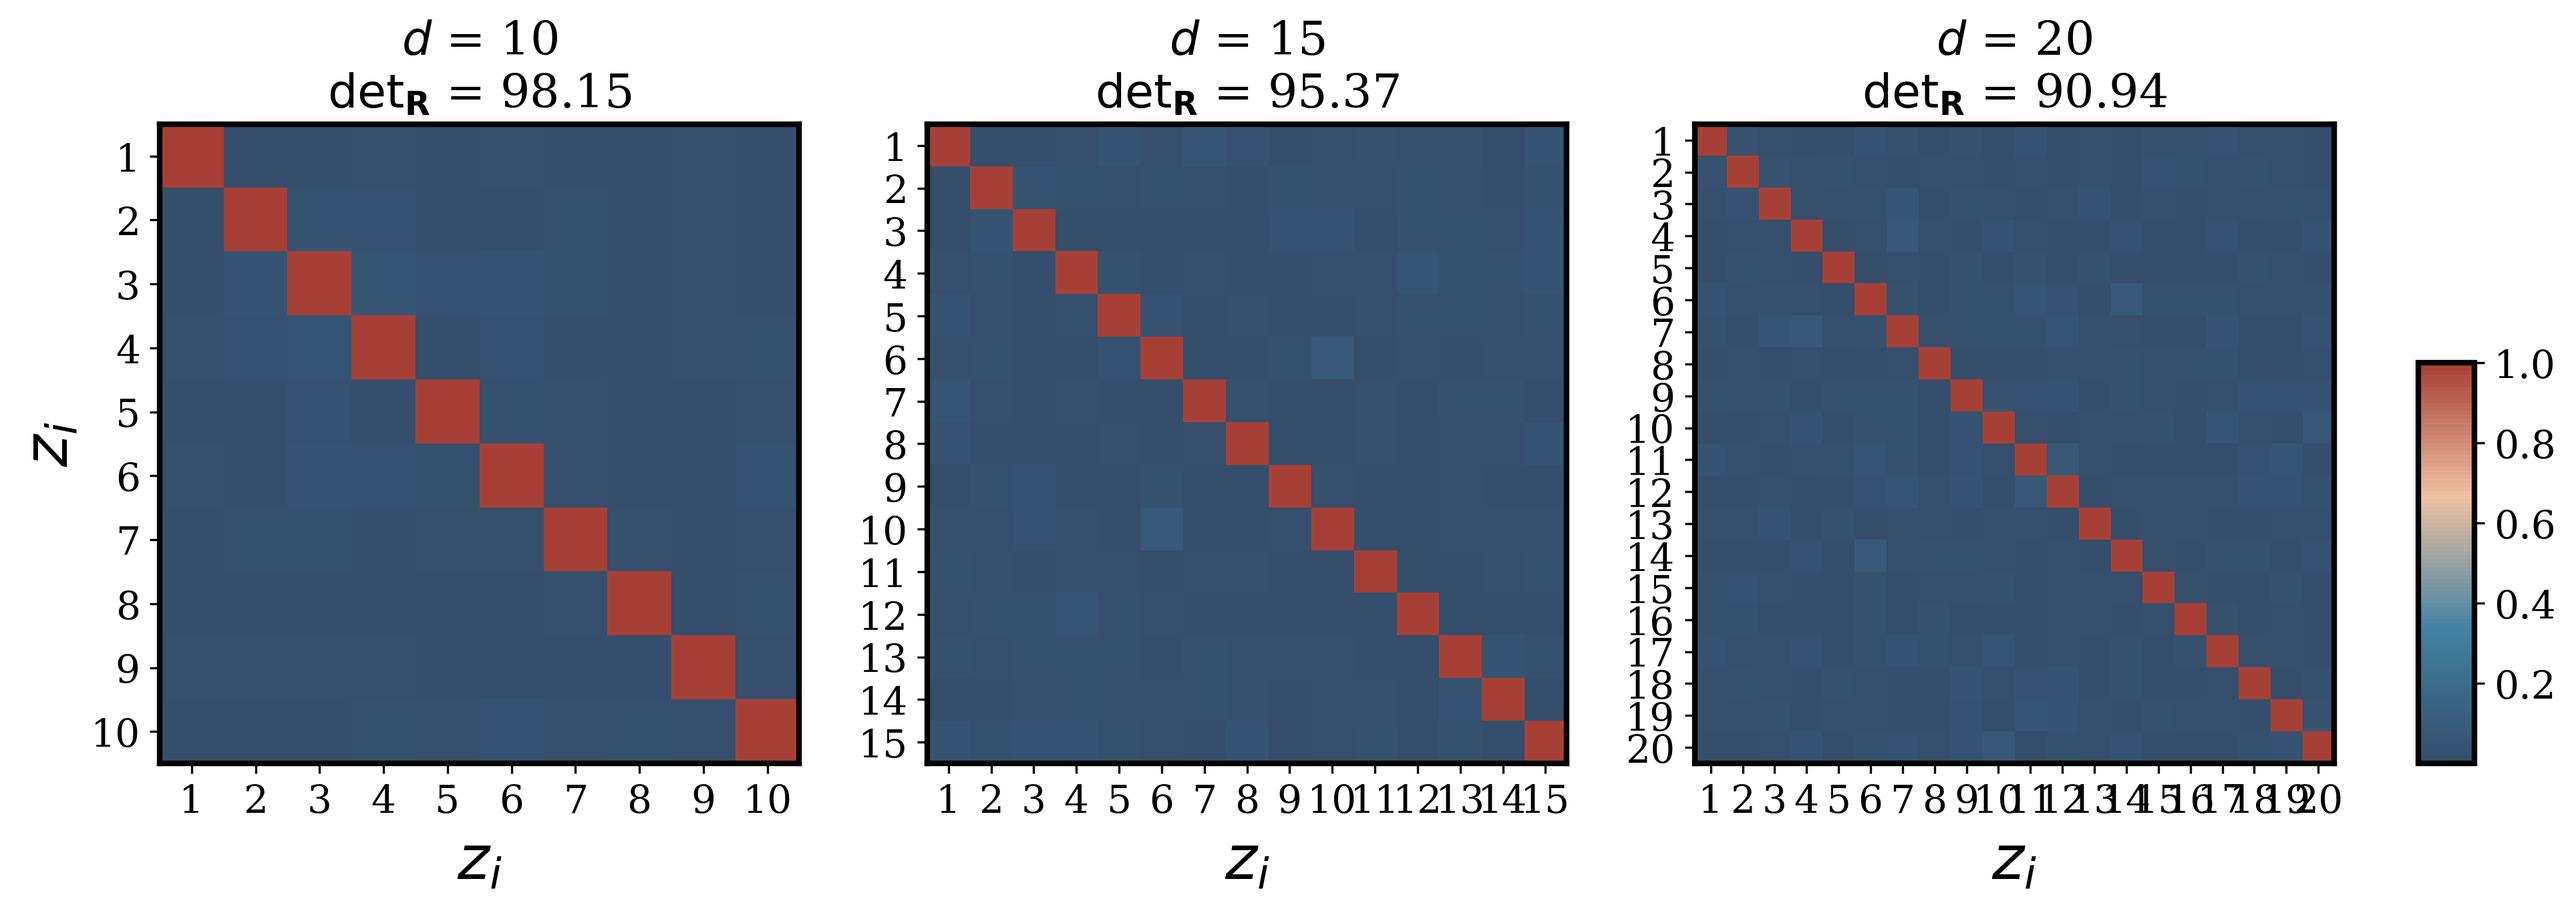
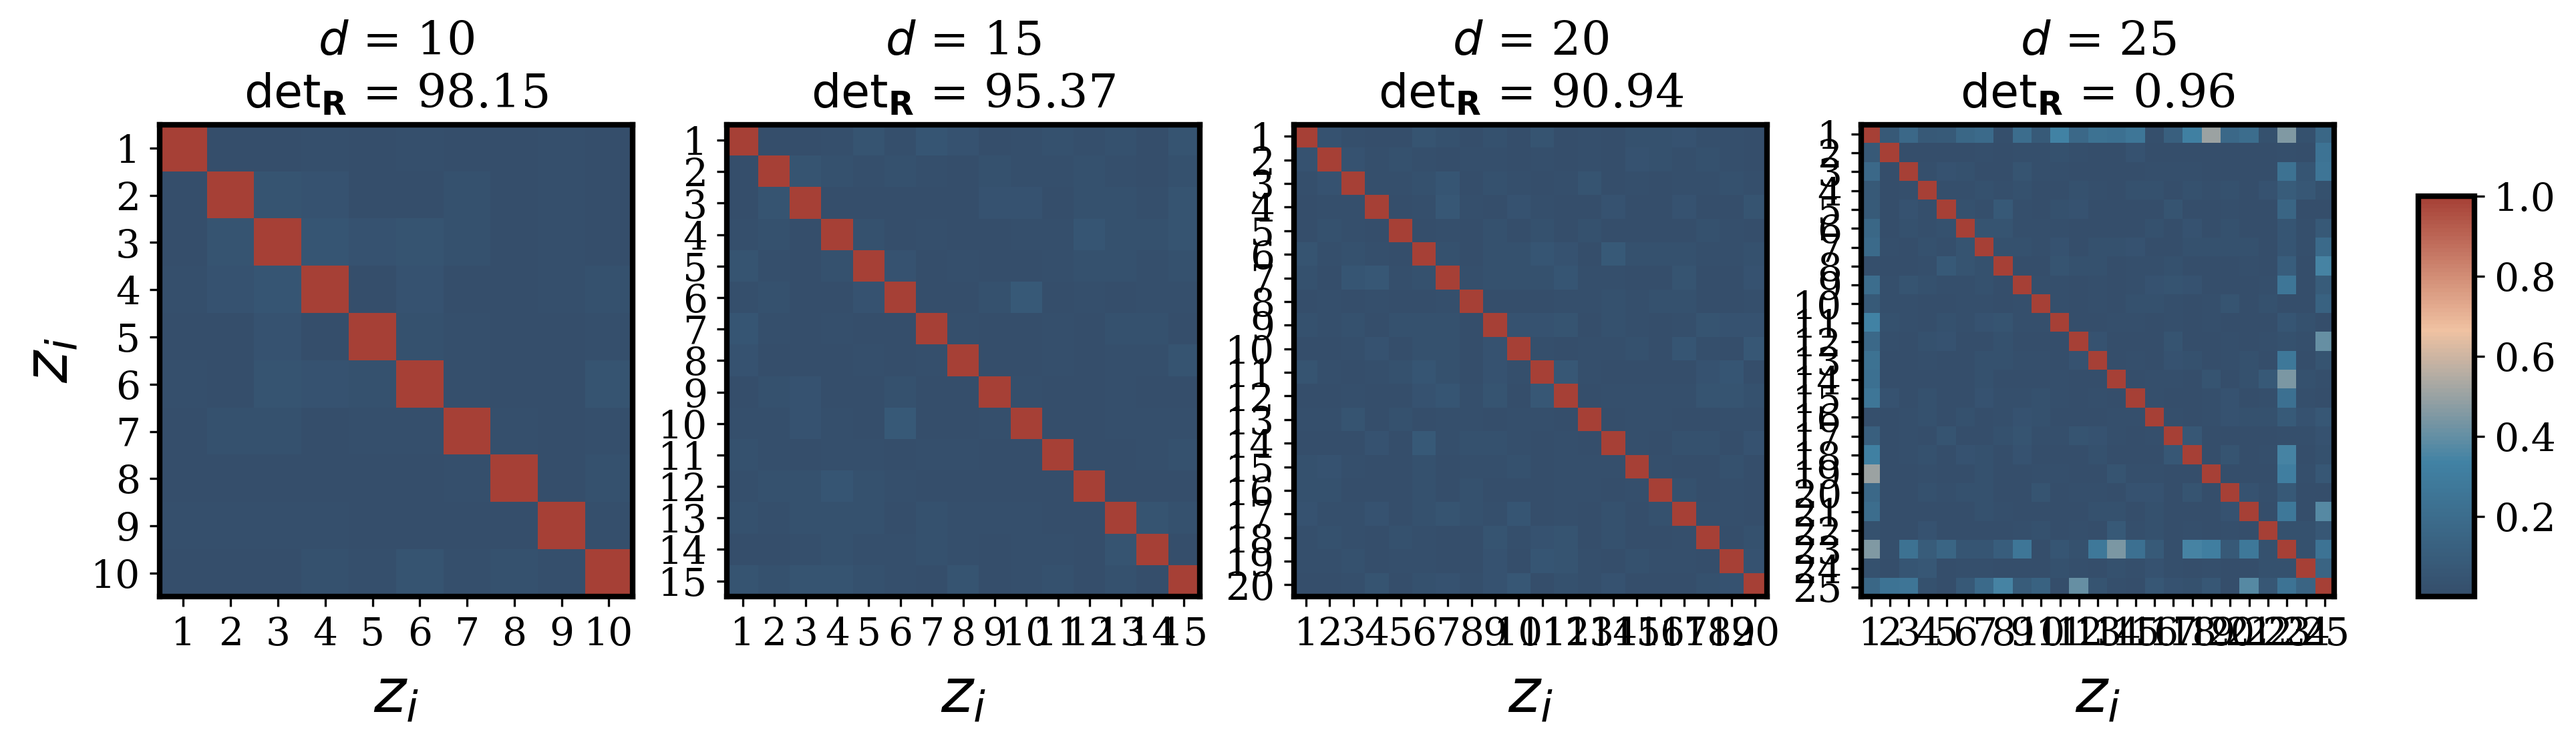
Update Poincare Map for POD and VAE

diff --git a/vis_PMap.py b/vis_PMap.py
@@ -1,0 +1,195 @@
+"""
+Visualise the Poincare Map as joint-PDF 
+@yuningw
+"""
+
+import h5py
+import numpy as np
+import argparse
+import matplotlib.pyplot as plt
+import seaborn as sns
+from scipy.stats import gaussian_kde
+from utils.configs import VAE_custom as args
+import matplotlib as mpl
+import os
+import shutil
+import pandas as pd
+import argparse
+
+#Plot config
+red         = "#D12920" #yinzhu
+blue        = "#2E59A7" # qunqing
+gray        = "#DFE0D9" # ermuyu
+
+plt.rc('font', family = 'serif')
+plt.rc('axes', labelsize = 20, linewidth = 1.5)
+plt.rc('font', size = 18)
+plt.rc('legend', fontsize = 12, handletextpad=0.3)
+plt.rc('xtick', labelsize = 21)
+plt.rc('ytick', labelsize = 21)
+font_dict = {"weight":"bold","size":20}
+
+
+baseDir     =   os.getcwd() + '/'
+save_fig_to =   baseDir + "Figs/Phase_Space/"
+
+plot_cfg  = {'ls':'none','marker':'o',"markersize":0.5, 'lw':2.5,'c':red}
+plot_scatter_cfg  = {'cmap':'rainbow'}
+
+################################################################
+# Load Data
+###############################################################
+print("#"*30)
+print("Plotting the PDF for effect of beta:")
+
+num_fields      =   25999
+latent_dim      =   10
+Epoch           =   300
+vae_type        =   f"v5"
+batch_size      =   128
+earlystop       =   False
+patience        =   0
+if vae_type == 'v5':
+    betas           =   [0.005]
+elif vae_type == 'v45':
+    betas           =   [5e-4,10e-4, 25e-4, 50e-4]
+elif vae_type == 'v4':
+    betas           =   [0.001, 50e-4, 100e-4, 500e-4]
+elif vae_type == 'v35':
+    betas           =   [5e-4, 0.001, 50e-4, 100e-4]
+
+#compute detR
+modes = []
+ranks = []
+for beta in betas:
+    filesID   =  f"Rank_Mode_{vae_type}_{int( num_fields )}n_{latent_dim}d_{int(beta*10000)}e-4beta_"+\
+                f"{args.block_type}conv_{len(args.filters)}Nf_{args.filters[-1]}Fdim_{args.linear_dim}Ldim"+\
+                f"{args.act_conv}convact_{args.act_linear}_" +\
+                f"{int(args.lr *1e5)}e-5LR_{int(args.w_decay*1e5)}e-5Wd"+\
+                f"{batch_size}bs_{Epoch}epoch_{earlystop}ES_{patience}P"
+    modes_filepath = baseDir+ "latent_modes/"+filesID+".npz"
+    print(f"Loading case: \n{filesID}")
+    d = np.load(modes_filepath)
+    z_mean = np.array(d["z_mean"])
+    z_var = np.array(d["z_var"])
+    
+    # z_mean = z_mean + np.exp(z_var*0.5) * np.random.random(size=z_var.shape)
+    orders = np.array(d['ranks'])
+    corr_matrix_latent = abs(np.corrcoef(z_mean.T))
+    detR = np.linalg.det(corr_matrix_latent)
+    print(f"In order to confirm the case ,we confirm the detR is {np.round(detR,4)}")
+    modes.append(z_mean)
+    ranks.append(orders)
+
+load_pod    =   baseDir + "pod_modes/"
+case_pod    =   f"POD-m{latent_dim}-n25999"
+
+with np.load( load_pod +  case_pod + ".npz") as pod_file:
+    # Load spatial modes
+    U_pod   =   pod_file['modes']
+    # Load temporal modes
+    V_pod   =   pod_file["vh"] * np.sqrt(25999)
+    pod     =   pod_file["s"]
+
+pod = V_pod.T
+vae_mode = modes[0][:,ranks[0]]
+print(f"VAE Mode = {vae_mode.shape}, POD Mode = {pod.shape}")
+
+
+################################################################
+# Poincare Map 
+###############################################################
+from utils.chaotic import Intersection , PDF
+
+## Basic setup for Pmap
+planeNo      = 0 
+postive_dir  = True
+lim_val      = 2.5 # Limitation of x and y bound when compute joint pdf 
+grid_val     = 50  # Mesh grid number for plot Pmap
+Pmap_Info    = f"PMAP_{planeNo}P_{postive_dir}pos_{lim_val}lim_{grid_val}grid_"
+
+InterSec_pred = Intersection(vae_mode,
+                            planeNo=planeNo,postive_dir=postive_dir)
+print(f"The intersection of Prediction has shape of {InterSec_pred.shape}")
+
+InterSec_test = Intersection(pod,
+                            planeNo=planeNo,postive_dir=postive_dir)
+print(f"The intersection of Test Data has shape of {InterSec_test.shape}")
+
+# Plot all the Poincare map for each section
+Nmodes   =  10 
+fig, axs = plt.subplots(Nmodes,Nmodes, 
+                        figsize=(3.5* Nmodes, 3.5*Nmodes),
+                        sharex=True,sharey=True)
+
+for i in range(0,Nmodes):
+        for j in range(0,Nmodes):
+            if(i==j or j==planeNo or i==planeNo or j>i):
+                axs[i,j].set_visible(False)
+                continue
+           
+            xx,yy, pdf_test      = PDF(  
+                                        InterSecX= InterSec_test[:,i],
+                                        InterSecY= InterSec_test[:,j],
+                                        xmin=-lim_val,xmax=lim_val,
+                                        ymin=-lim_val,ymax=lim_val,
+                                        x_grid=grid_val,y_grid=grid_val,
+                                    )
+                  
+
+            xx,yy, pdf_pred      = PDF(   
+                                        InterSecX= InterSec_pred[:,i],
+                                        InterSecY= InterSec_pred[:,j],
+                                        xmin=-lim_val,xmax=lim_val,
+                                        ymin=-lim_val, ymax=lim_val,
+                                        x_grid=grid_val,y_grid=grid_val,
+                                    )
+
+
+            
+            axs[i,j].contour(xx,yy,pdf_test,colors=blue)
+            axs[i,j].contour(xx,yy,pdf_pred,colors=red)
+            axs[i,j].set_xlim(-lim_val,lim_val)
+            axs[i,j].set_xlabel(f"z{i+1}",fontsize='large')
+            axs[i,j].set_ylabel(f"z{j+1}",fontsize='large')
+            axs[i,j].set_aspect('equal',"box")
+            axs[i,j].grid(visible=True,markevery=1,color='gainsboro', zorder=1)
+plt.subplots_adjust(wspace= 0.1)
+plt.savefig( f"Figs/Phase_Space/Pmap_VAE_POD.jpg", bbox_inches="tight")
+
+
+
+fig, axs = plt.subplots(1,1, 
+                        figsize=(5,5),
+                        sharex=True,sharey=True)
+
+xx,yy, pdf_test      = PDF(  
+                                        InterSecX= InterSec_test[:,4],
+                                        InterSecY= InterSec_test[:,6],
+                                        xmin=-lim_val,xmax=lim_val,
+                                        ymin=-lim_val,ymax=lim_val,
+                                        x_grid=grid_val,y_grid=grid_val,
+                                    )
+                  
+
+xx,yy, pdf_pred      = PDF(   
+                                        InterSecX= InterSec_pred[:,4],
+                                        InterSecY= InterSec_pred[:,6],
+                                        xmin=-lim_val,xmax=lim_val,
+                                        ymin=-lim_val, ymax=lim_val,
+                                        x_grid=grid_val,y_grid=grid_val,
+                                    )
+
+
+            
+axs.contour(xx,yy,pdf_test,colors=blue)
+axs.contour(xx,yy,pdf_pred,colors=red)
+axs.set_xlim(-lim_val,lim_val)
+axs.set_xlabel(f"z{4+1}",fontsize='large')
+axs.set_ylabel(f"z{6+1}",fontsize='large')
+axs.set_aspect('equal',"box")
+axs.grid(visible=True,markevery=1,color='gainsboro', zorder=1)
+plt.subplots_adjust(wspace= 0.1)
+plt.savefig( f"Figs/Phase_Space/Pmap_VAE_POD_5V7.jpg", bbox_inches="tight")
+
+

diff --git a/PlotPdf.py b/PlotPdf.py
@@ -27,6 +27,7 @@ parser      =   argparse.ArgumentParser("To specify which PDF to plot")
 parser.add_argument("--beta",   "-b",action="store_true",help="Plot the effect of beta")
 parser.add_argument("--dim",    "-d",action="store_true",help="Plot the effect of latent dimension")
 parser.add_argument("--nfields","-n",action="store_true",help="Plot the effect of number of training data")
+parser.add_argument("--compare","-c",action="store_true",help="VAE VS AE")
 parser.add_argument("--vae",    "-v",default=5,type= int,help="The type of vae")
 Args        =   parser.parse_args()
 #Plot config
@@ -351,4 +352,108 @@ if Args.nfields:
     print("The Fig has been saved")
     print("#"*30)
 
+
+
+if Args.compare:
+    print("#"*30)
+    print("Plotting the PDF AE VS VAE:")
+
+    num_fields      =   25999
+    latent_dim      =   10
+    Epoch           =   300
+    vae_type        =   f"v{Args.vae}"
+    batch_size      =   128
+    earlystop       =   False
+    patience        =   0
+
+    if vae_type == 'v5':
+        betas           =   [0, 0.005]
+    elif vae_type == 'v45':
+        betas           =   [5e-4,10e-4, 25e-4, 50e-4]
+    elif vae_type == 'v4':
+        betas           =   [0.001, 50e-4, 100e-4, 500e-4]
+    elif vae_type == 'v35':
+        betas           =   [5e-4, 0.001, 50e-4, 100e-4]
+    
+    #compute detR
+    modes = []
+    for beta in betas:
+
+        filesID   =  f"Rank_Mode_{vae_type}_{int( num_fields )}n_{latent_dim}d_{int(beta*10000)}e-4beta_"+\
+                    f"{args.block_type}conv_{len(args.filters)}Nf_{args.filters[-1]}Fdim_{args.linear_dim}Ldim"+\
+                    f"{args.act_conv}convact_{args.act_linear}_" +\
+                    f"{int(args.lr *1e5)}e-5LR_{int(args.w_decay*1e5)}e-5Wd"+\
+                    f"{batch_size}bs_{Epoch}epoch_{earlystop}ES_{patience}P"
+
+
+        # modes_filepath = baseDir+ "latent_modes/"+filesID +"modes"+ ".npz"
+        modes_filepath = baseDir+ "latent_modes/"+filesID+".npz"
+
+        print(f"Loading case: \n{filesID}")
+
+        d = np.load(modes_filepath)
+        z_mean = np.array(d["z_mean"])
+
+        corr_matrix_latent = abs(np.corrcoef(z_mean.T))
+        detR = np.linalg.det(corr_matrix_latent)
+        print(f"In order to confirm the case ,we confirm the detR is {np.round(detR,4)}")
+        modes.append(z_mean)
+
+    # Compute the standard deviation
+    Inds = []
+    for m in modes:
+        std = np.std(m,axis=0)
+        ind = std > 0.5
+        Inds.append(ind)
+
+    # Create a figure for plot 
+    fig, axs = plt.subplots(1, len(modes),
+                            sharex=True, sharey= True,
+                            figsize =(4*len(modes),3)
+                            )
+
+    #Plot PDF 1x4 vs Beta
+    axs = axs.flatten()
+    for j, ax in enumerate(axs):
+        z_mean  =   modes[j]
+        kdes    =   []
+        for i in range(z_mean.shape[1]):
+            ri      = z_mean[:,i]
+            xx      = np.linspace(-2.5,2.5,z_mean.shape[0])
+            pdf     = gaussian_kde(ri)
+            kdes.append(pdf(xx))
+        kdes    =   np.array(kdes)
+        inds    =   Inds[j]
+        # generate the PDF through gaussain
+        for i in range(z_mean.shape[1]):
+            if inds[i]:
+                ax.plot(xx,         kdes[i]/kdes[i].max(),  zorder= 3,  c = blue)
+                ax.fill_between(xx, kdes[i]/kdes[i].max(),  zorder= 3,  color = blue,   alpha =0.15)
+            else:
+                ax.plot(xx,         kdes[i]/kdes[i].max(),  zorder= 5,  c = red)
+        n_noise = inds.shape[0] -  np.count_nonzero(inds)
+        
+        ax.set_xlim(-2.5,2.5)
+        ax.set_ylim(0,1.2)
+        ax.set_xlabel(r"$z_i$",fontdict = font_dict)
+
+        # For Label of each pannel
+        if betas[j] == 0.0: 
+            ax.set_title("Arch 4: AutoEncoder" )
+        
+        else:
+            ax.set_title( "Arch 4: " + r"$\beta$ "+f"= {np.round(betas[j]*100,1)}" + r"$\times$ " + r"$10^2$" )
+        print(f"For beta =  {betas[j]}, there are {n_noise} noises")
+    axs[0].set_ylabel("PDF")
+        
+
+    plt.savefig(save_pdf_to + "AE_VAE",
+                bbox_inches = "tight",
+                dpi=300)
+
+    # plt.savefig(save_pdf_to + "10_Post_Figs/PDF/"+"PDF_"+vae_type+"_n"+str(num_fields)+'_m'+str(latent_dim)+'_b_all'+"_epoch" + str(Epoch) + ".pdf",
+    #             bbox_inches = "tight",
+    #              dpi=300)
+    print("The Fig has been saved")
+    print("#"*30)
 

diff --git a/PlotMartix.py b/PlotMartix.py
@@ -135,7 +135,7 @@ if Args.dim:
     print("Plotting the PDF for effect of Latent dimension:")
 
     num_fields      =   25999
-    latent_dims     =   [10,15,20]
+    latent_dims     =   [10,15,20,25]
     beta            =   0.0025
     Epoch           =   300
     vae_type        =   "v5"
@@ -154,7 +154,8 @@ if Args.dim:
                     f"{batch_size}bs_{Epoch}epoch_{earlystop}ES_{patience}P"
 
 
-        modes_filepath = baseDir+ "03_Mode/"+filesID +"modes"+ ".npz"
+        modes_filepath = modedata_path +filesID + 'modes' +  ".npz"
+
 
         print(f"Loading case: \n{filesID}")
         d       =   np.load(modes_filepath)
